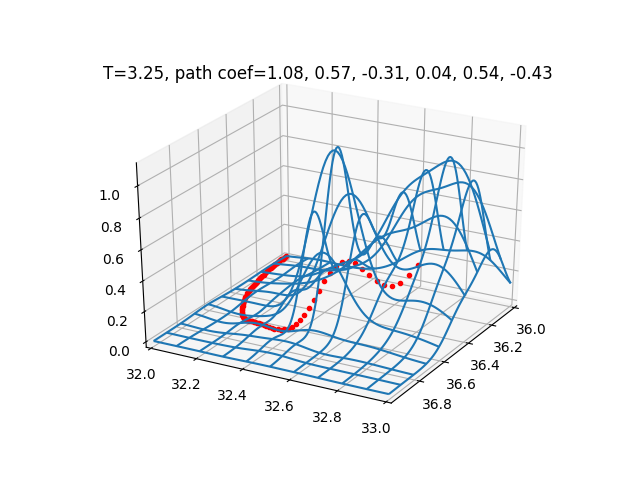
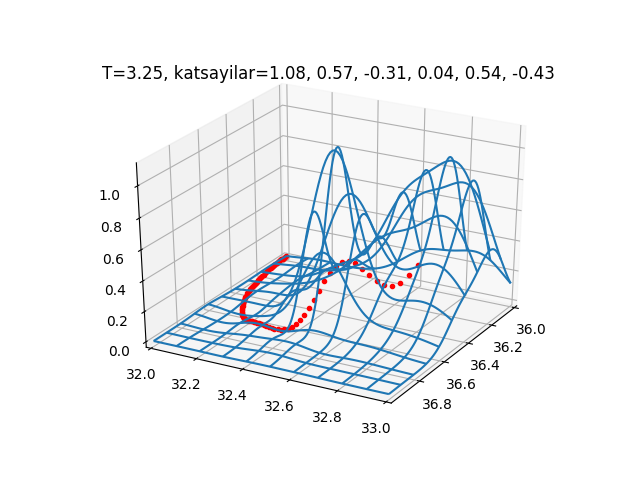
-

Changed region(s): [[0.1562, 0.125, 0.875, 0.1875]]

diff --git a/calc_multi/calc_multi_40_elev/calc_multi_40_elev.html b/calc_multi/calc_multi_40_elev/calc_multi_40_elev.html
@@ -514,8 +514,7 @@ değişimleri açık şekilde göstermek amaciyla
 <p>Gradyan inişi için gereken gradyan her parametre için
 <code>autograd.grad(intval,...)</code> ile alinir [5], ve 0,1,2,.. diye giden
 parametreler sırasıyla egrinin katsayilari $a_1,a_2,..$'ye tekabül ediyor.</p>
-<pre><code class="python">import pandas as pd
-import numpy as np
+<pre><code class="python">import numpy as np
 from mpl_toolkits.mplot3d import Axes3D
 import matplotlib.pyplot as plt
 from matplotlib import cm
@@ -628,7 +627,7 @@ for i in range(3):
     y = b0 + b1*t + b2*t**2 + b3*t**3 + b4*t**4
     z = [f_interp(anp.array([[xx,yy]]))[0][0] for xx,yy in zip(x,y)]
     ax.plot3D(x, y, z,'r.')
-    plt.title(&quot;T=%0.2f, path coef=&quot; % T +&quot;, &quot;.join([str(np.round(xcurr,2)) for xcurr in newx]))
+    plt.title('T=%0.2f, katsayilar=' % T +', '.join([str(np.round(xcurr,2)) for xcurr in newx]))
     plt.savefig('linear_app88rbf_08-%d.png' % i)
 
     grad_1 = [intval_grad_a1(a1,a2,a3,b1,b2,b3),\

diff --git a/calc_multi/calc_multi_40_elev/yukseklik_fonksiyonu__tepeler__arasindan_en_duz_optimal_yuruyus_yolunu_bulmak.html b/calc_multi/calc_multi_40_elev/yukseklik_fonksiyonu__tepeler__arasindan_en_duz_optimal_yuruyus_yolunu_bulmak.html
@@ -514,8 +514,7 @@ değişimleri açık şekilde göstermek amaciyla
 <p>Gradyan inişi için gereken gradyan her parametre için
 <code>autograd.grad(intval,...)</code> ile alinir [5], ve 0,1,2,.. diye giden
 parametreler sırasıyla egrinin katsayilari $a_1,a_2,..$'ye tekabül ediyor.</p>
-<pre><code class="python">import pandas as pd
-import numpy as np
+<pre><code class="python">import numpy as np
 from mpl_toolkits.mplot3d import Axes3D
 import matplotlib.pyplot as plt
 from matplotlib import cm
@@ -628,7 +627,7 @@ for i in range(3):
     y = b0 + b1*t + b2*t**2 + b3*t**3 + b4*t**4
     z = [f_interp(anp.array([[xx,yy]]))[0][0] for xx,yy in zip(x,y)]
     ax.plot3D(x, y, z,'r.')
-    plt.title(&quot;T=%0.2f, path coef=&quot; % T +&quot;, &quot;.join([str(np.round(xcurr,2)) for xcurr in newx]))
+    plt.title('T=%0.2f, katsayilar=' % T +', '.join([str(np.round(xcurr,2)) for xcurr in newx]))
     plt.savefig('linear_app88rbf_08-%d.png' % i)
 
     grad_1 = [intval_grad_a1(a1,a2,a3,b1,b2,b3),\

diff --git a/calc_multi/calc_multi_40_elev/pathsauto.py b/calc_multi/calc_multi_40_elev/pathsauto.py
@@ -1,4 +1,3 @@
-import pandas as pd
 import numpy as np
 from mpl_toolkits.mplot3d import Axes3D
 import matplotlib.pyplot as plt
@@ -112,7 +111,7 @@ for i in range(3):
     y = b0 + b1*t + b2*t**2 + b3*t**3 + b4*t**4
     z = [f_interp(anp.array([[xx,yy]]))[0][0] for xx,yy in zip(x,y)]
     ax.plot3D(x, y, z,'r.')
-    plt.title("T=%0.2f, path coef=" % T +", ".join([str(np.round(xcurr,2)) for xcurr in newx]))
+    plt.title('T=%0.2f, katsayilar=' % T +', '.join([str(np.round(xcurr,2)) for xcurr in newx]))
     plt.savefig('linear_app88rbf_08-%d.png' % i)
 
     grad_1 = [intval_grad_a1(a1,a2,a3,b1,b2,b3),\

diff --git a/calc_multi/calc_multi_40_elev/calc_multi_40_elev.tex b/calc_multi/calc_multi_40_elev/calc_multi_40_elev.tex
@@ -456,6 +456,3 @@ Kaynaklar
 
 
 
-
-
-
